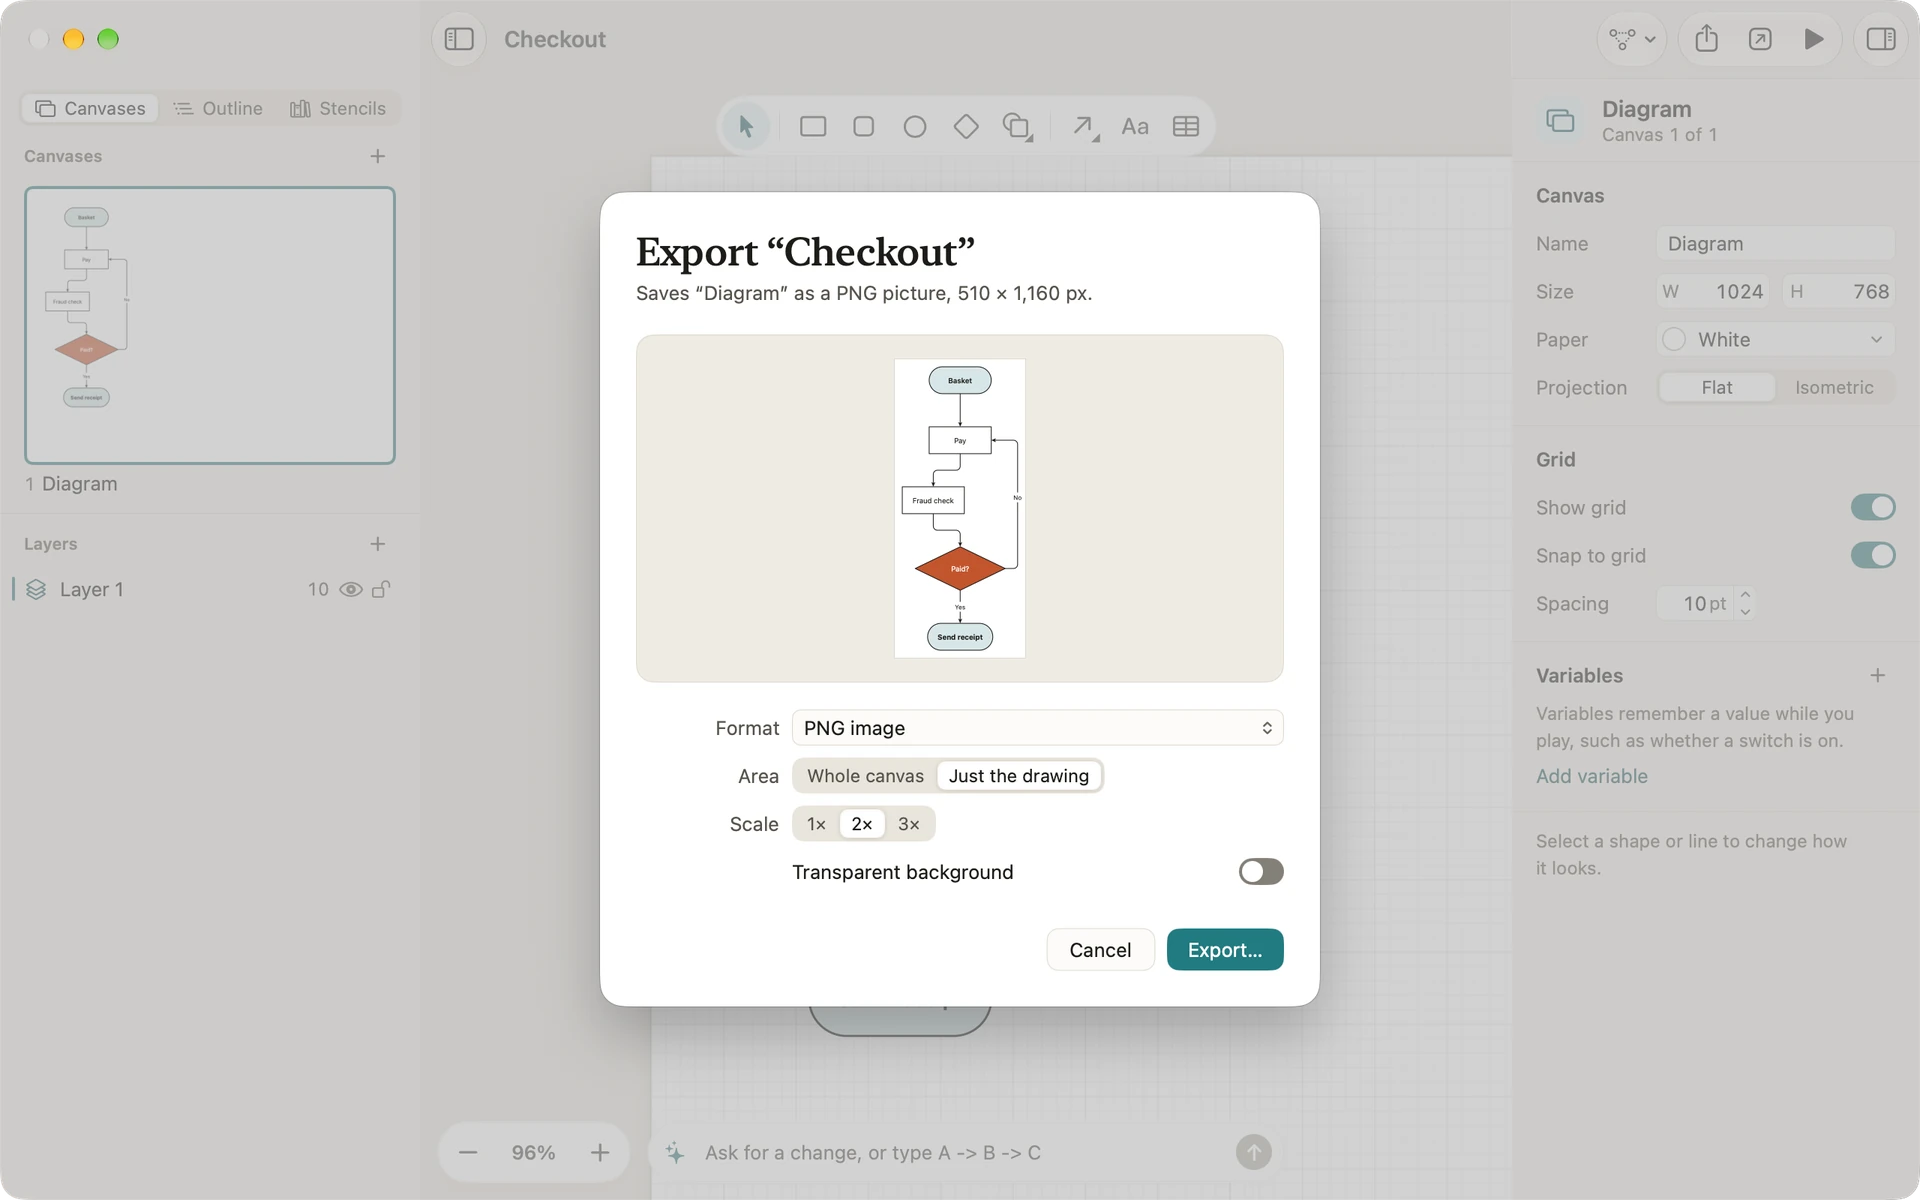
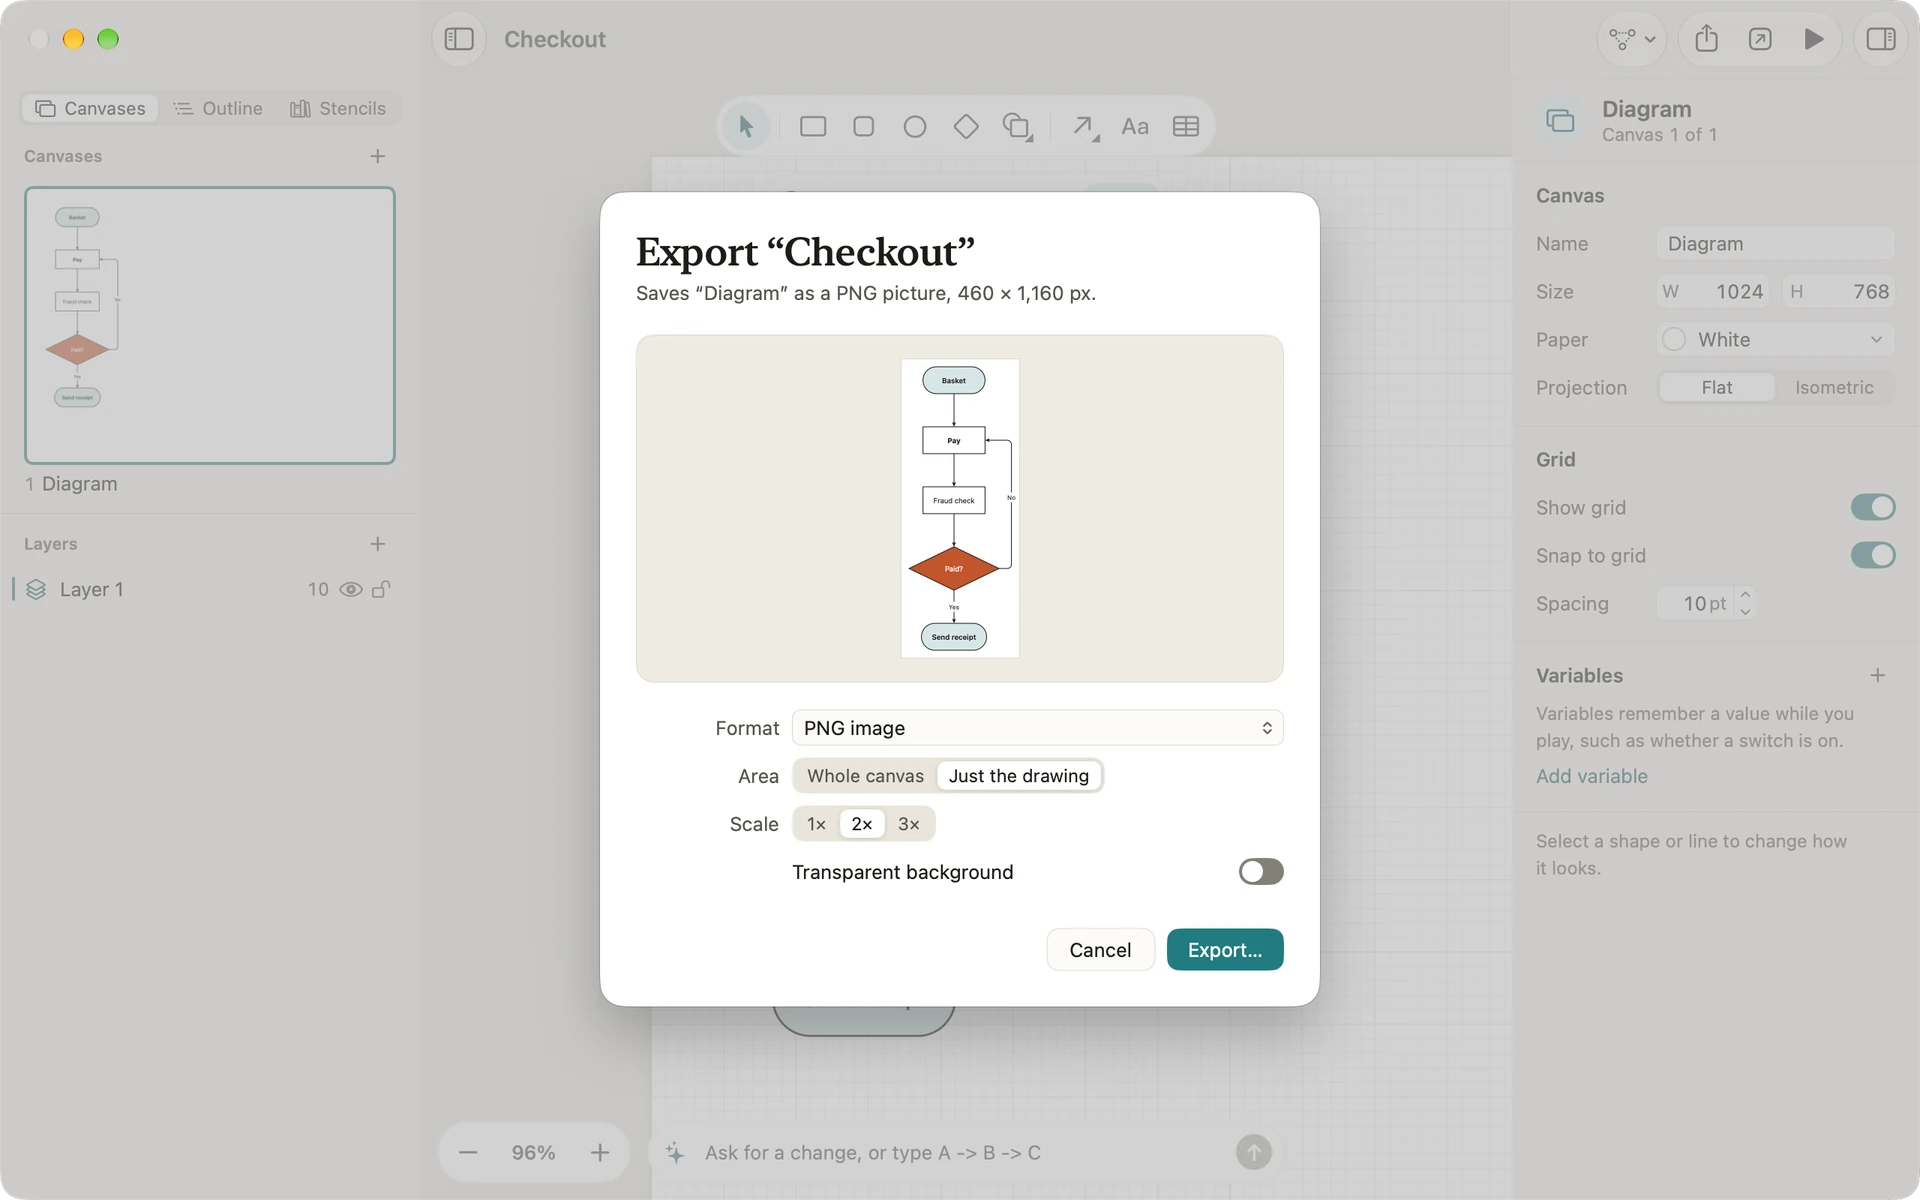
diagrove: first-flowchart's tidied and export-png taken again with Pay in bold and the flow in one column

diff --git a/content/diagrove/tutorials/first-flowchart.md b/content/diagrove/tutorials/first-flowchart.md
@@ -68,7 +68,7 @@ The sparkle at the start of the prompt bar opens the guide to what you can ask, 
 
 Adding Fraud check laid the flow out again around the new step. Whenever shapes you’ve moved by hand need putting back in order, type “tidy up the whole diagram” in the prompt bar, or choose **Arrange › Auto-arrange › Flow, top to bottom** (Shift-Command-L). The connected shapes are laid out again, neatly spaced, with your hand-drawn “No” line still joining Paid? to Pay.
 
-![The finished checkout flow: Basket, Pay, Fraud check, an orange Paid? decision and Send receipt in bold, with the No line looping back to Pay and Yes on the line to Send receipt.](tidied.webp "The finished flow, laid out again.")
+![The finished checkout flow in one straight column: Basket, Pay in bold, Fraud check, an orange Paid? decision and Send receipt, with the No line looping back to Pay and Yes on the line to Send receipt, under the notice Made the text of “Pay” bold.](tidied.webp "The finished flow, laid out again.")
 
 ## 6. Export a PNG
 
@@ -80,7 +80,7 @@ Adding Fraud check laid the flow out again around the new step. Whenever shapes 
 
 The sheet’s subtitle says what you’ll get, including the PNG’s size in pixels.
 
-![The export sheet for Checkout: a preview of the checkout flow, Format set to PNG image, Area set to Just the drawing and Scale 2×, under the subtitle Saves “Diagram” as a PNG picture, 510 × 1,160 px.](export-png.webp "The subtitle gives the PNG’s size in pixels.")
+![The export sheet for Checkout: a preview of the checkout flow, Format set to PNG image, Area set to Just the drawing and Scale 2×, under the subtitle Saves “Diagram” as a PNG picture, 460 × 1,160 px.](export-png.webp "The subtitle gives the PNG’s size in pixels.")
 
 ## Where to go next
 
